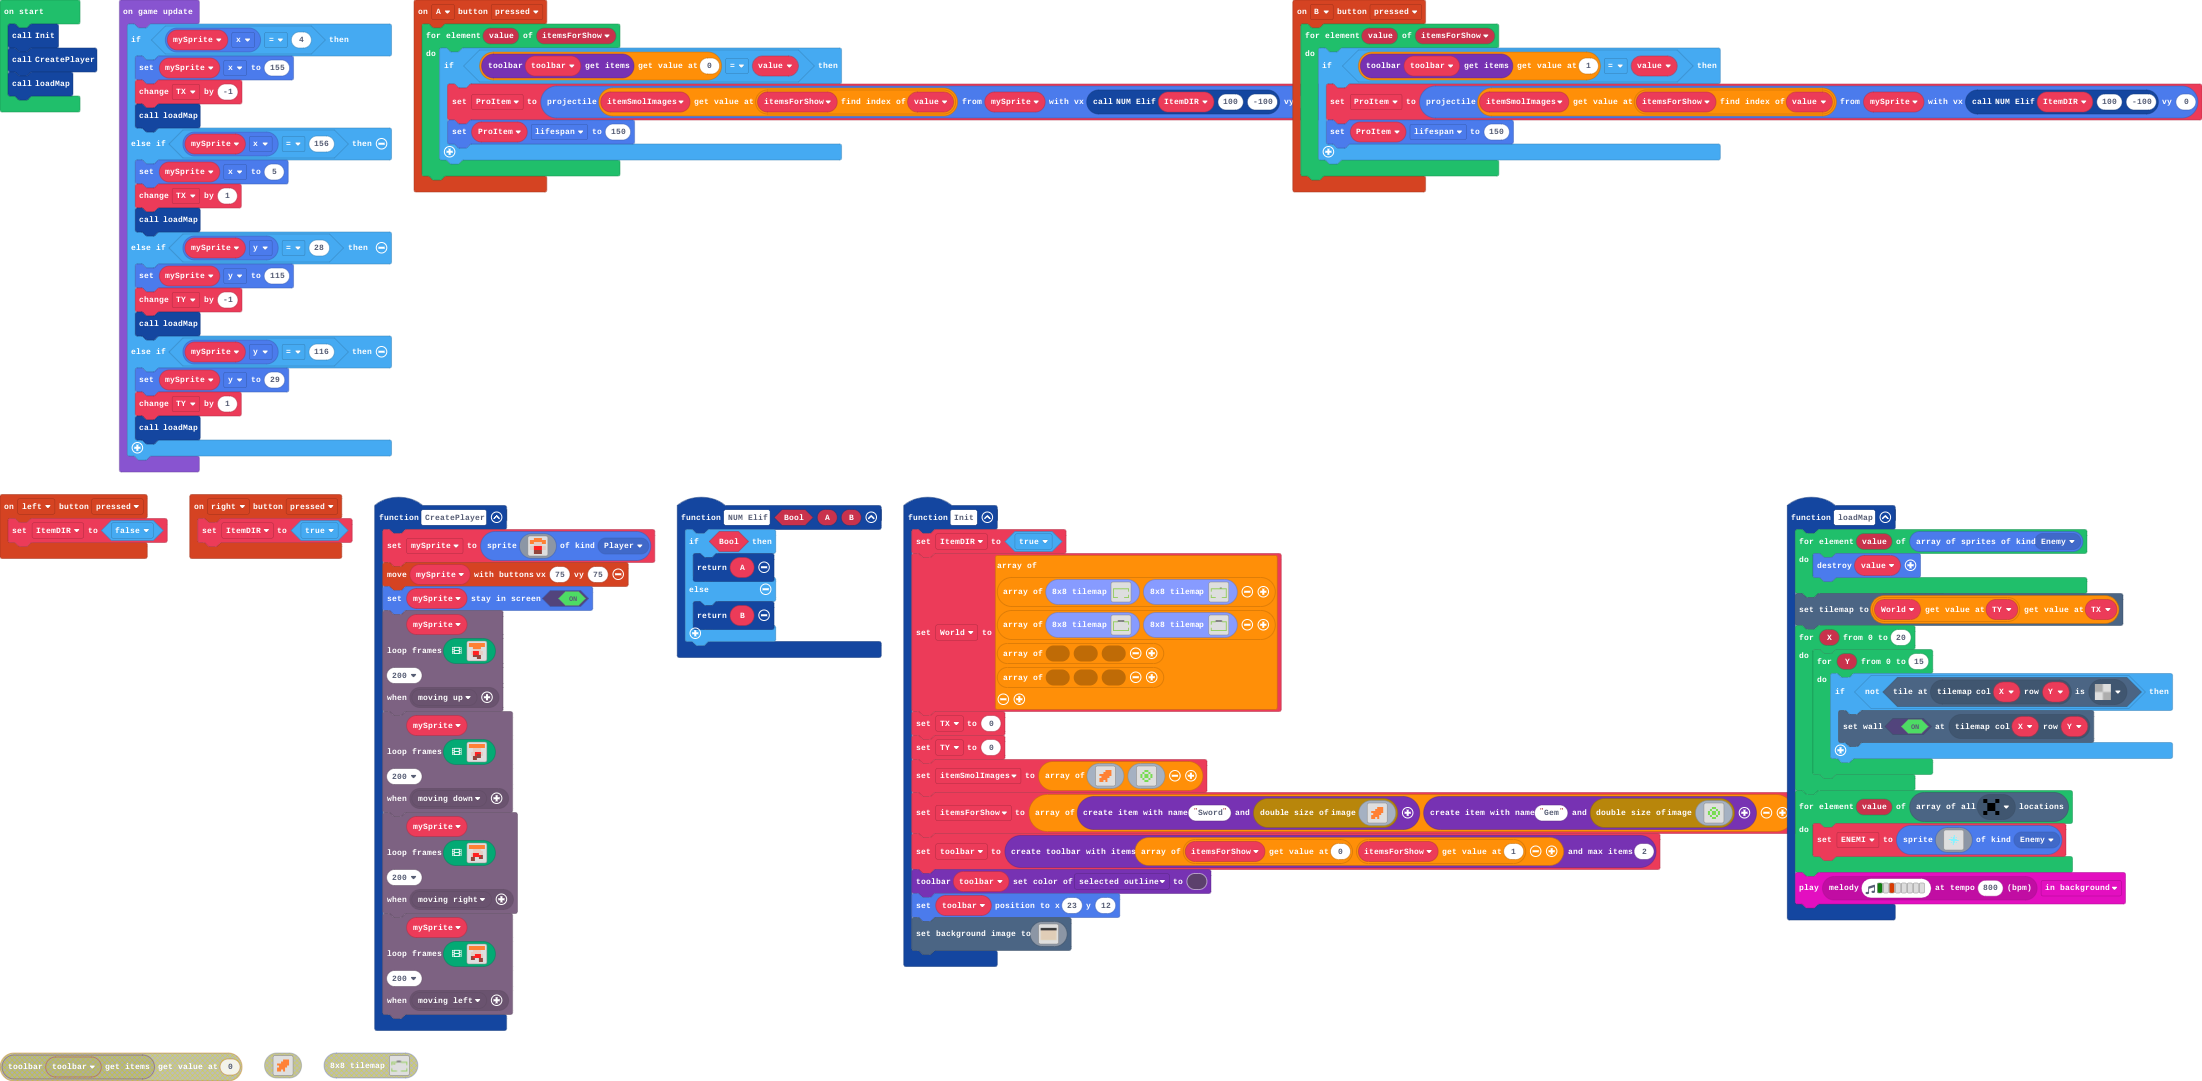
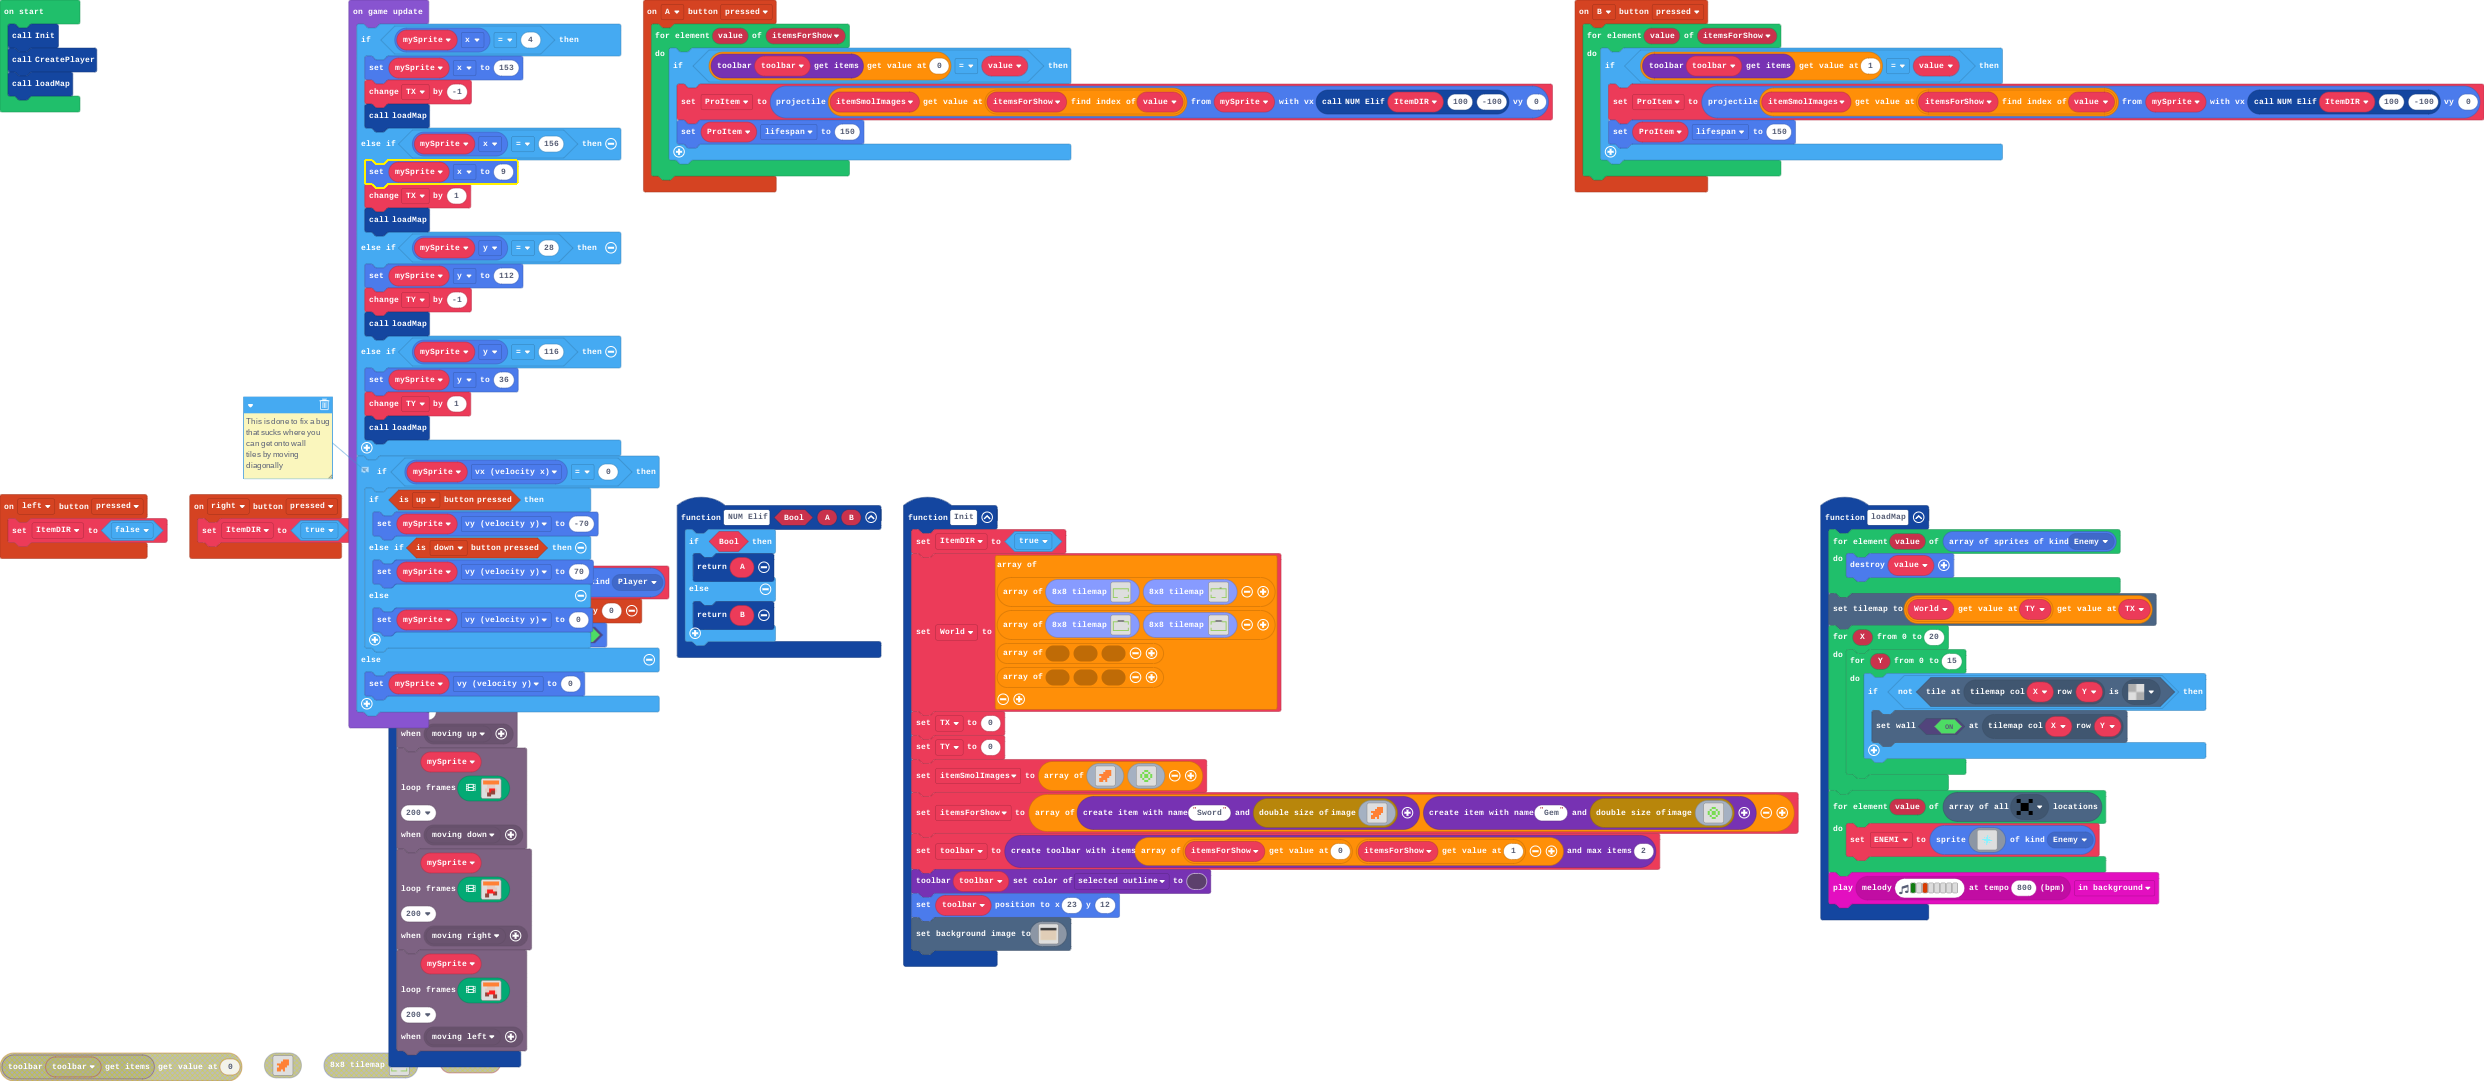
Fixed a bug where you can walk thru walls

diff --git a/main.ts b/main.ts
@@ -25,7 +25,7 @@ controller.B.onEvent(ControllerButtonEvent.Pressed, function () {
 })
 function CreatePlayer () {
     mySprite = sprites.create(assets.image`Player`, SpriteKind.Player)
-    controller.moveSprite(mySprite, 75, 75)
+    controller.moveSprite(mySprite, 70, 0)
     mySprite.setStayInScreen(true)
     characterAnimations.loopFrames(
     mySprite,
@@ -105,20 +105,34 @@ CreatePlayer()
 loadMap()
 game.onUpdate(function () {
     if (mySprite.x == 4) {
-        mySprite.x = 155
+        mySprite.x = 153
         TX += -1
         loadMap()
     } else if (mySprite.x == 156) {
-        mySprite.x = 5
+        mySprite.x = 9
         TX += 1
         loadMap()
     } else if (mySprite.y == 28) {
-        mySprite.y = 115
+        mySprite.y = 112
         TY += -1
         loadMap()
     } else if (mySprite.y == 116) {
-        mySprite.y = 29
+        mySprite.y = 36
         TY += 1
         loadMap()
+    }
+    // This is done to fix a bug that sucks where you can get onto wall
+    // tiles by moving
+    // diagonally
+    if (mySprite.vx == 0) {
+        if (controller.up.isPressed()) {
+            mySprite.vy = -70
+        } else if (controller.down.isPressed()) {
+            mySprite.vy = 70
+        } else {
+            mySprite.vy = 0
+        }
+    } else {
+        mySprite.vy = 0
     }
 })
